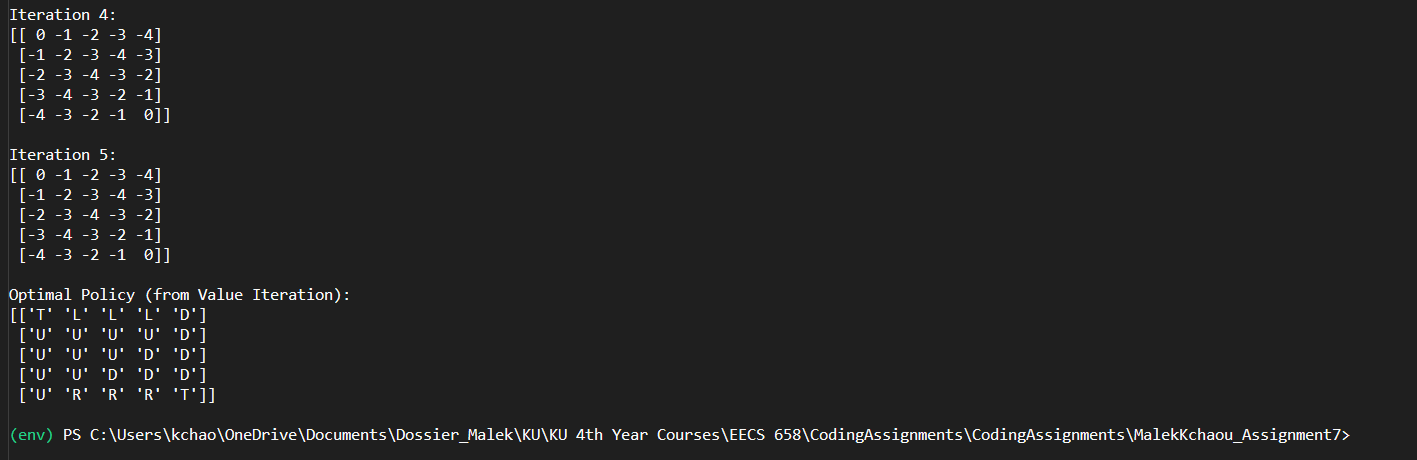
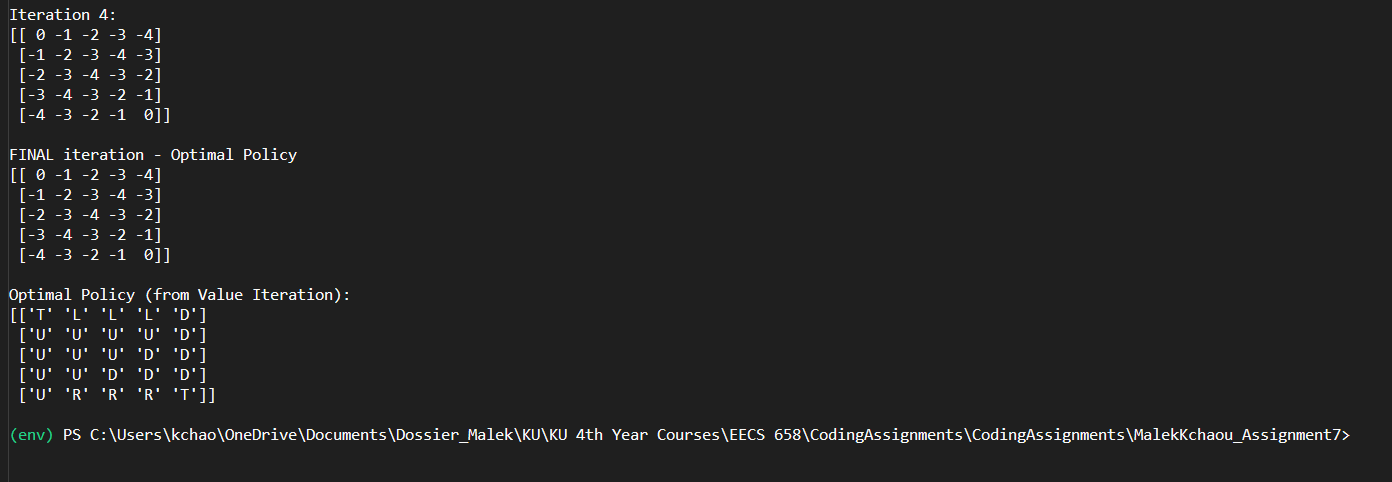
Polished VI output

Changed region(s): [[0.0, 0.3043, 0.9885, 0.9739], [0.0, 0.0, 0.1236, 0.2739]]

diff --git a/CodingAssignments/MalekKchaou_Assignment7/GridWorld.py b/CodingAssignments/MalekKchaou_Assignment7/GridWorld.py
@@ -386,14 +386,17 @@ def run_value_iteration():
         V = V_new.copy()
         errors.append(delta)
 
-        # Print intermediate results every iteration
-        print(f"Iteration {iteration}:")
-        print(V, "\n")
+        
 
         # Stop once updates are small
         if delta < theta:
+            print(f"FINAL iteration - Optimal Policy")
+            print(V, "\n")
             break
 
+        # Print intermediate results every iteration
+        print(f"Iteration {iteration}:")
+        print(V, "\n")
     return V, errors
 
 
